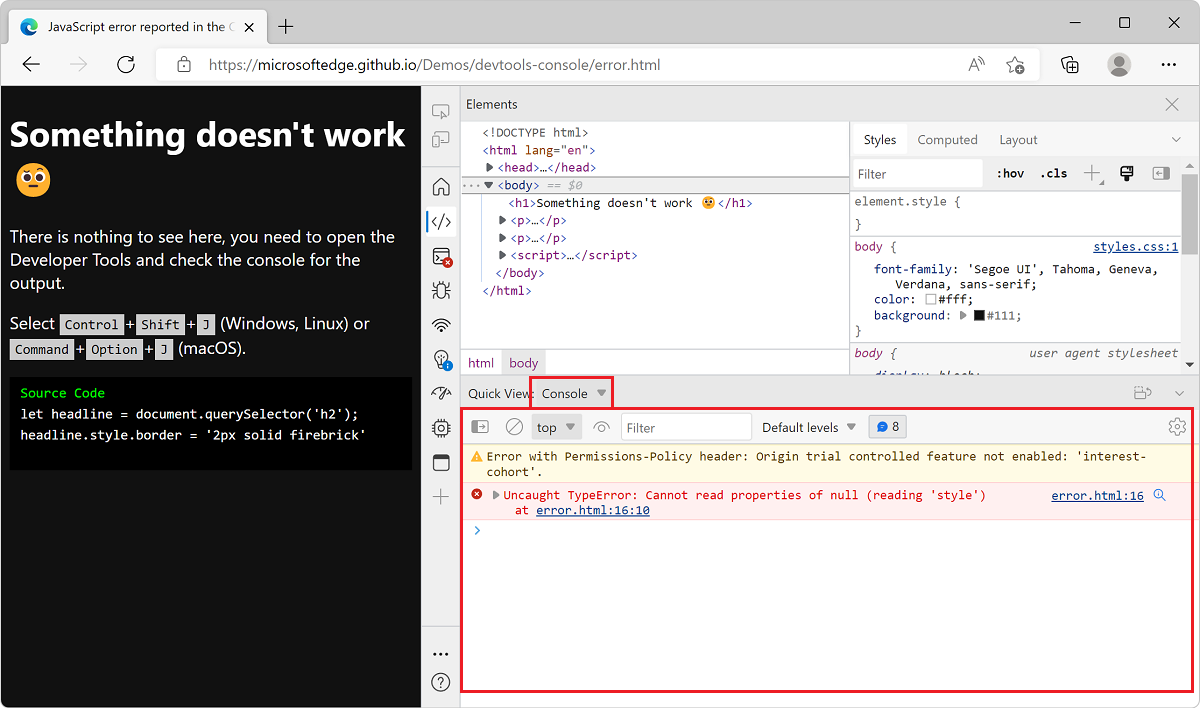
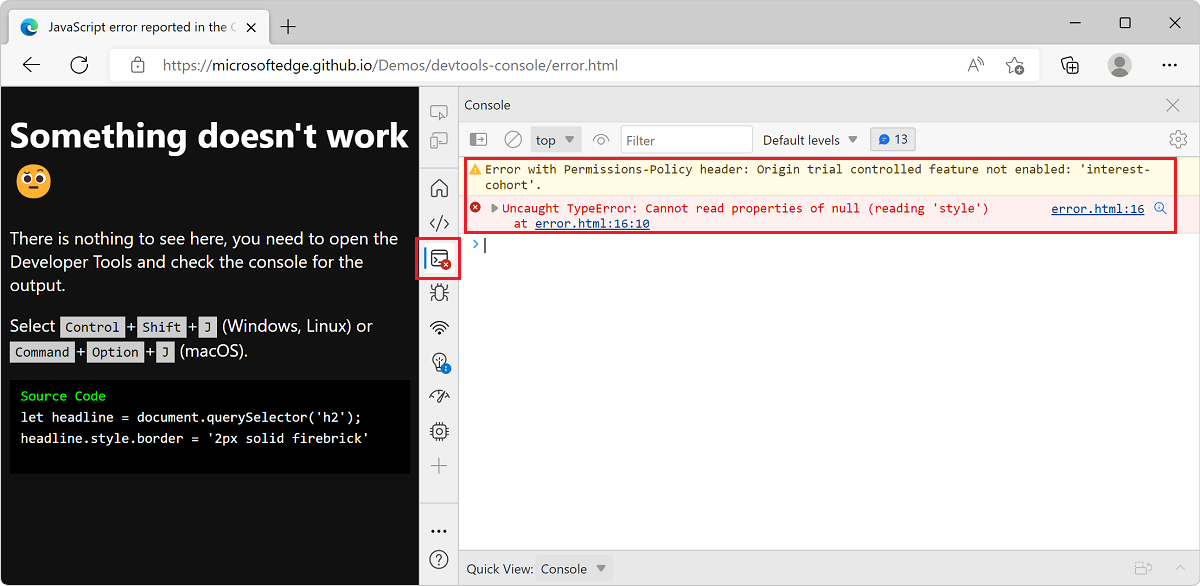
Removed mentions of the error counter

diff --git a/microsoft-edge/devtools-guide-chromium/console/index.md b/microsoft-edge/devtools-guide-chromium/console/index.md
@@ -33,7 +33,7 @@ The fastest way to directly open the **Console** is to press `Ctrl`+`Shift`+`J` 
 <!-- ====================================================================== -->
 ## Error reports and the Console
 
-The **Console** is the default place where JavaScript and connectivity errors are reported.  If any errors occur, the **Issues counter** is displayed next to the **Settings** icon in DevTools that provides the number of errors and warnings.  Click the **Issues counter** to open the **Issues** tool and display the problem.  For more information, see [Fixing JavaScript errors that are reported in the Console](console-debug-javascript.md).
+The **Console** is the default place where JavaScript and connectivity errors are reported.  If any errors occur, a red error badge is added to the  **Console** icon in the **Activity bar** in DevTools.  Click the **Console** icon to open the **Console** tool and display the problems.  For more information, see [Fixing JavaScript errors that are reported in the Console](console-debug-javascript.md).
 
 DevTools gives detailed information about the error in the **Console**:
 

diff --git a/microsoft-edge/devtools-guide-chromium/console/console-debug-javascript.md b/microsoft-edge/devtools-guide-chromium/console/console-debug-javascript.md
@@ -24,9 +24,9 @@ The first experience you have with the **Console** is likely to be errors in scr
 
 1. Right-click anywhere in the webpage and then select **Inspect**.  Or, press `F12`.  DevTools opens next to the webpage.
 
-   In the top right of DevTools, the **Open Console to view errors** button displays an error about the webpage.
+   In the **Activity bar**, the **Console** tool icon displays a red badge indicating that there were errors on the webpage.
 
-1. Click the **Open Console to view errors** button on the top right.  In DevTools, the **Console** gives you more information about the error:
+1. Click the **Console** icon. In DevTools, the **Console** gives you more information about the errors:
 
    ![DevTools gives detailed information about the error in the Console.](../media/console-debug-displays-error.msft.png)
 
